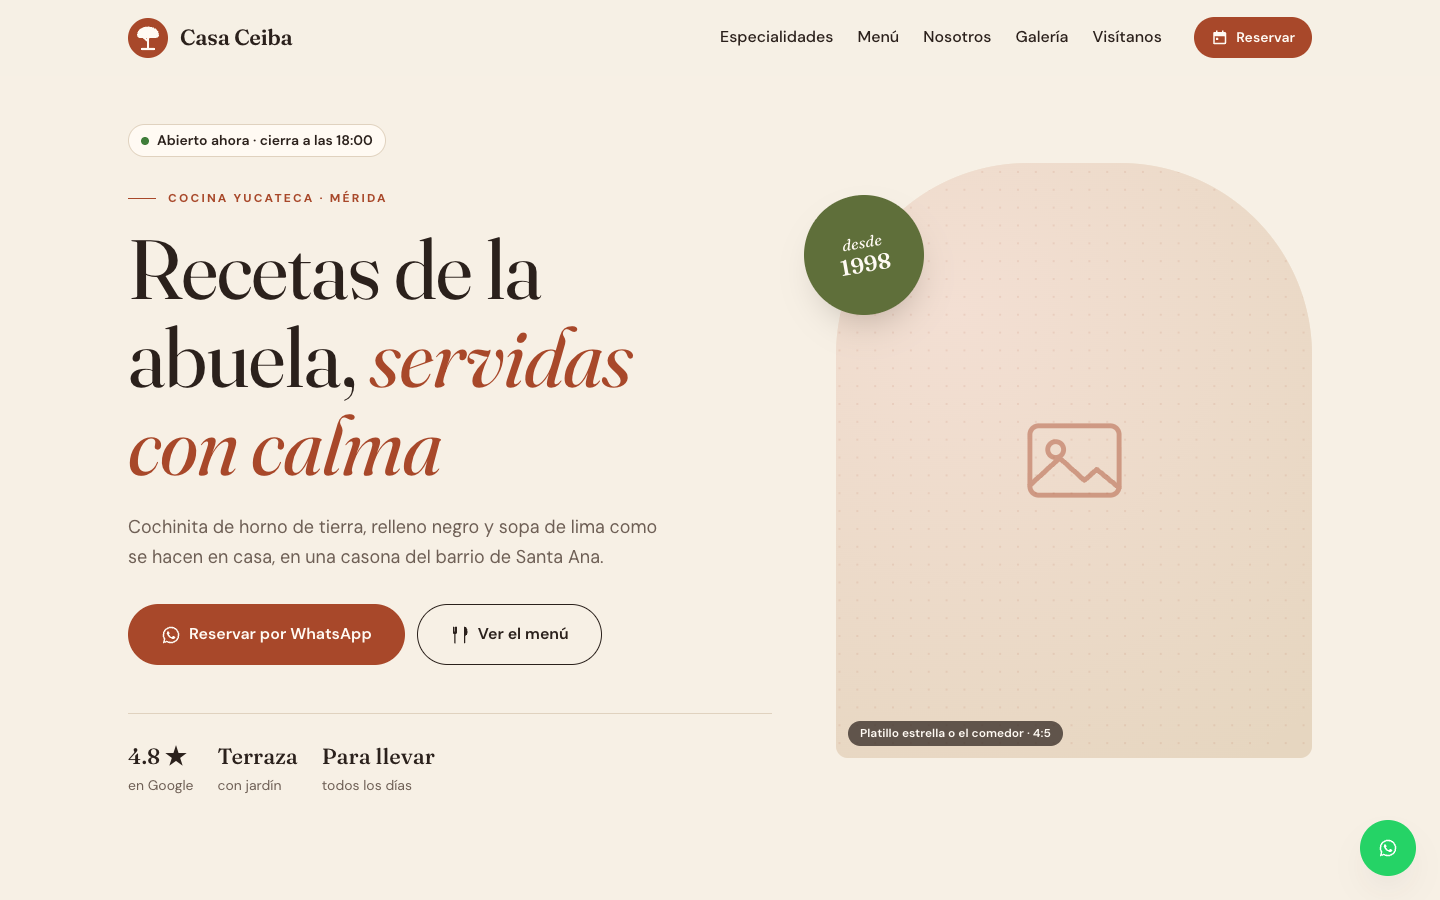
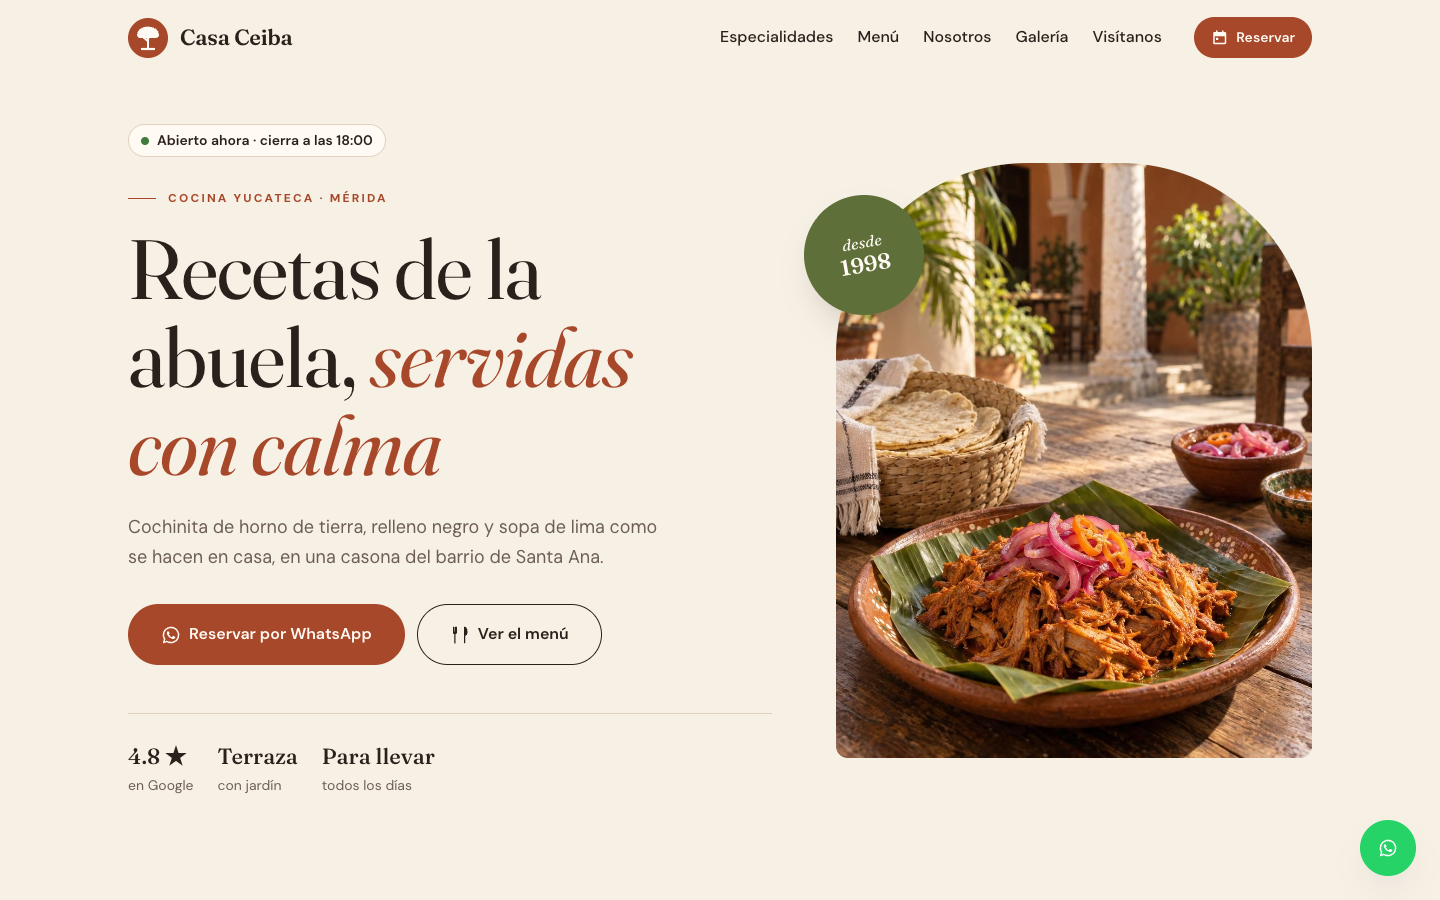
feat: fotos de ejemplo generadas con IA para Casa Ceiba
Diez imágenes con gpt-image-2.5-sunburst, una por espacio de imagen,
con alt descriptivo y medidas reales.

Changed region(s): [[0.5625, 0.1556, 0.9375, 0.84]]

diff --git a/index.html b/index.html
@@ -112,8 +112,8 @@
         </div>
 
         <div class="hero__visual">
-          <figure class="media media--portrait" data-slot="hero" data-placeholder data-hint="Platillo estrella o el comedor · 4:5">
-            <img src="assets/img/placeholder.svg" alt="Cochinita pibil servida en hoja de plátano en Casa Ceiba" width="1200" height="1500" fetchpriority="high">
+          <figure class="media media--portrait" data-slot="hero">
+            <img src="images/hero.jpg" alt="Cochinita pibil servida en hoja de plátano en el patio de Casa Ceiba" width="1024" height="1536" fetchpriority="high">
           </figure>
           <p class="hero__stamp"><span>desde <strong>1998</strong></span></p>
         </div>
@@ -131,8 +131,8 @@
         <!-- Para agregar un platillo, copia un <li class="dish-card"> completo y agrega su espacio en imageSlots -->
         <ul class="grid grid--3">
           <li class="dish-card">
-            <figure class="media" data-slot="platillo-1" data-placeholder data-hint="Foto del platillo · 4:3">
-              <img src="assets/img/placeholder.svg" alt="Cochinita pibil con cebolla morada y tortillas hechas a mano" width="1200" height="900" loading="lazy">
+            <figure class="media" data-slot="platillo-1">
+              <img src="images/platillo-1.jpg" alt="Cochinita pibil con cebolla morada y tortillas hechas a mano" width="1536" height="1024" loading="lazy">
             </figure>
             <span class="dish-card__tag">Favorito de la casa</span>
             <div class="dish-card__header">
@@ -142,8 +142,8 @@
             <p class="dish-card__text">Cerdo marinado en achiote y naranja agria, cocido 12 horas en horno de tierra.</p>
           </li>
           <li class="dish-card">
-            <figure class="media" data-slot="platillo-2" data-placeholder data-hint="Foto del platillo · 4:3">
-              <img src="assets/img/placeholder.svg" alt="Relleno negro con huevo cocido en plato de barro" width="1200" height="900" loading="lazy">
+            <figure class="media" data-slot="platillo-2">
+              <img src="images/platillo-2.jpg" alt="Relleno negro con huevo cocido en cazuela de barro" width="1536" height="1024" loading="lazy">
             </figure>
             <span class="dish-card__tag">Receta familiar</span>
             <div class="dish-card__header">
@@ -153,8 +153,8 @@
             <p class="dish-card__text">Pavo en recado de chiles tatemados, con but de cerdo y huevo cocido.</p>
           </li>
           <li class="dish-card">
-            <figure class="media" data-slot="platillo-3" data-placeholder data-hint="Foto del platillo · 4:3">
-              <img src="assets/img/placeholder.svg" alt="Sopa de lima con tiras de tortilla frita" width="1200" height="900" loading="lazy">
+            <figure class="media" data-slot="platillo-3">
+              <img src="images/platillo-3.jpg" alt="Sopa de lima con tiras de tortilla frita y cilantro" width="1536" height="1024" loading="lazy">
             </figure>
             <span class="dish-card__tag">Para empezar</span>
             <div class="dish-card__header">
@@ -258,8 +258,8 @@
     <!-- ============ NOSOTROS ============ -->
     <section class="section section--muted" id="nosotros" aria-labelledby="nosotros-titulo">
       <div class="container split">
-        <figure class="media" data-slot="nosotros" data-placeholder data-hint="Foto de la cocina o de la chef · 4:3">
-          <img src="assets/img/placeholder.svg" alt="Doña Chela preparando recado negro en la cocina de Casa Ceiba" width="1200" height="900" loading="lazy">
+        <figure class="media" data-slot="nosotros">
+          <img src="images/nosotros.jpg" alt="Doña Chela moliendo recado en molcajete en la cocina de Casa Ceiba" width="1536" height="1024" loading="lazy">
         </figure>
         <div class="split__content">
           <p class="eyebrow">Nosotros</p>
@@ -284,28 +284,28 @@
         <!-- La primera foto se muestra al doble de tamaño -->
         <ul class="gallery">
           <li class="gallery__item">
-            <figure class="media media--square" data-slot="galeria-1" data-placeholder data-hint="Comedor o terraza · foto principal">
-              <img src="assets/img/placeholder.svg" alt="Terraza de Casa Ceiba con mesas bajo la ceiba" width="1200" height="1200" loading="lazy">
+            <figure class="media media--square" data-slot="galeria-1">
+              <img src="images/galeria-1.jpg" alt="Terraza de Casa Ceiba con mesas bajo la ceiba" width="1024" height="1024" loading="lazy">
             </figure>
           </li>
           <li class="gallery__item">
-            <figure class="media media--square" data-slot="galeria-2" data-placeholder data-hint="Detalle de un platillo · 1:1">
-              <img src="assets/img/placeholder.svg" alt="Panuchos recién servidos" width="1200" height="1200" loading="lazy">
+            <figure class="media media--square" data-slot="galeria-2">
+              <img src="images/galeria-2.jpg" alt="Panuchos con pavo, aguacate y cebolla morada" width="1024" height="1024" loading="lazy">
             </figure>
           </li>
           <li class="gallery__item">
-            <figure class="media media--square" data-slot="galeria-3" data-placeholder data-hint="Bebidas o postres · 1:1">
-              <img src="assets/img/placeholder.svg" alt="Agua de chaya con piña" width="1200" height="1200" loading="lazy">
+            <figure class="media media--square" data-slot="galeria-3">
+              <img src="images/galeria-3.jpg" alt="Agua de chaya con piña junto a una jarra de barro" width="1024" height="1024" loading="lazy">
             </figure>
           </li>
           <li class="gallery__item">
-            <figure class="media media--square" data-slot="galeria-4" data-placeholder data-hint="La cocina en acción · 1:1">
-              <img src="assets/img/placeholder.svg" alt="Cocinera haciendo tortillas a mano" width="1200" height="1200" loading="lazy">
+            <figure class="media media--square" data-slot="galeria-4">
+              <img src="images/galeria-4.jpg" alt="Manos haciendo tortillas junto al comal" width="1024" height="1024" loading="lazy">
             </figure>
           </li>
           <li class="gallery__item">
-            <figure class="media media--square" data-slot="galeria-5" data-placeholder data-hint="Fachada o ambiente · 1:1">
-              <img src="assets/img/placeholder.svg" alt="Fachada de la casona de Casa Ceiba" width="1200" height="1200" loading="lazy">
+            <figure class="media media--square" data-slot="galeria-5">
+              <img src="images/galeria-5.jpg" alt="Mesa servida frente a la fachada de Casa Ceiba" width="1024" height="1024" loading="lazy">
             </figure>
           </li>
         </ul>

diff --git a/README.md b/README.md
@@ -17,7 +17,7 @@ También puedes abrir `index.html` con cualquier servidor estático. No requiere
 
 1. **Identidad:** colores y tipografía en `assets/css/tokens.css`.
 2. **Contenido:** textos, menú y precios en `index.html`, organizado por secciones.
-3. **Imágenes:** la plantilla tiene 10 espacios de imagen listados en `imageSlots` de `template.json`. Mientras no tengan foto real, muestran una etiqueta con lo que va ahí. Ver [AGENTS.md](AGENTS.md#espacios-de-imagen).
+3. **Imágenes:** la plantilla tiene 10 espacios de imagen listados en `imageSlots` de `template.json`, con fotos de ejemplo en `images/` generadas con IA (`gpt-image-2.5-sunburst`). Reemplázalas por fotos reales del negocio; ver [AGENTS.md](AGENTS.md#espacios-de-imagen).
 
 Las reglas de arquitectura y la lista de datos que se repiten están en [AGENTS.md](AGENTS.md).
 

diff --git a/AGENTS.md b/AGENTS.md
@@ -45,6 +45,8 @@ Para poner una foto real en un espacio:
 3. Borra `data-placeholder` y `data-hint` del `<figure>`. Así desaparece la etiqueta de relleno.
 4. No cambies la clase `media--…` ni el `data-slot`: CSS recorta la foto a la proporción del espacio.
 
+Las fotos de `images/` que trae la plantilla son de ejemplo (generadas con IA para Casa Ceiba): reemplázalas por las del negocio real siguiendo los mismos pasos, y borra del repositorio las de ejemplo que ya no se usen.
+
 Si la persona sube varias fotos sin decir dónde van, asígnalas según la `label` de cada espacio en `imageSlots`. `npm run check` dice cuántos espacios siguen con imagen de relleno.
 
 ## Estructura
